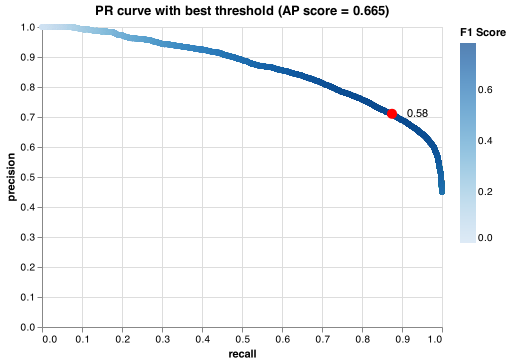
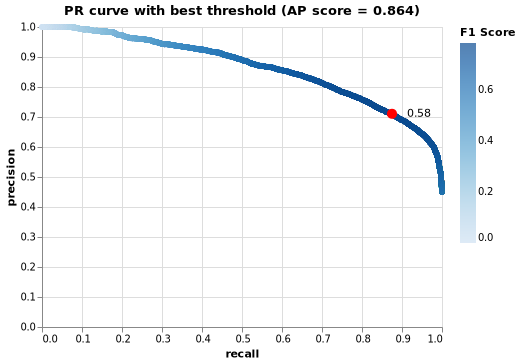
Add graphs & table on finding section, and modify model_performance.py

diff --git a/src/model_evaluation.py b/src/model_evaluation.py
@@ -78,13 +78,25 @@ def main():
     y_pred_train = rand_search_rf.predict(X_train)
     y_pred = rand_search_rf.predict(X_test)
 
+    # Get output of pred_proba of train and test data respectively
+    y_pred_train_prob = rand_search_rf.predict_proba(X_train)[:,1]
+    y_pred_test_prob = rand_search_rf.predict_proba(X_test)[:,1]
+    ap_forest_train = average_precision_score(y_train, y_pred_train_prob)
+    roc_forest_train = roc_auc_score(y_train, y_pred_train_prob)
+
+    ap_forest_test = average_precision_score(y_test, y_pred_test_prob)
+    roc_forest_test = roc_auc_score(y_test, y_pred_test_prob)
+
+
     # Table of Metrics for positive class for train and test set
     model_perf_df = pd.DataFrame(
         {
             "Accuracy": [accuracy_score(y_train, y_pred_train), accuracy_score(y_test, y_pred)],
             "Precision": [precision_score(y_train, y_pred_train), precision_score(y_test, y_pred)],
             "Recall": [recall_score(y_train, y_pred_train), recall_score(y_test, y_pred)],
-            "F1 Score": [f1_score(y_train, y_pred_train), f1_score(y_test, y_pred)]
+            "F1 Score": [f1_score(y_train, y_pred_train), f1_score(y_test, y_pred)],
+            "AP Score": [ap_forest_train, ap_forest_test],
+            "ROC AUC Score": [roc_forest_train, roc_forest_test]
         },
         index=["Train Data", "Test Data"])
 
@@ -107,7 +119,7 @@ def main():
     print(f"Classification report saved to {clf_report_path}")
 
     # Table of Metrics for train set
-    PR_curve_df = pd.DataFrame(precision_recall_curve(y_train, rand_search_rf.predict_proba(X_train)[:,1],), index=["precision","recall","threshold"]).T
+    PR_curve_df = pd.DataFrame(precision_recall_curve(y_train, y_pred_train_prob), index=["precision","recall","threshold"]).T
     PR_curve_df['F1 Score'] =  2 * (PR_curve_df['precision'] * PR_curve_df['recall'])/(PR_curve_df['precision'] + PR_curve_df['recall'])
     
     # Threshold to get best F1 score
@@ -123,7 +135,7 @@ def main():
     )
 
     max_f1_point = alt.Chart(max_f1_df, 
-                            title = 'PR curve with best threshold (AP score = 0.665)',).mark_circle(
+                            title = f'PR curve with best threshold (AP score = {ap_forest_train:.3f})',).mark_circle(
         color="red", size=100, opacity=1).encode(
         x="recall",
         y="precision"
@@ -143,8 +155,8 @@ def main():
     print(f"PR curve saved to {PR_curve_plot_path}")
 
     # Evaluate Model with test data set with best_threshold
-    y_pred_train_thres = rand_search_rf.predict_proba(X_train)[:, 1] > best_thres
-    y_pred_thres = rand_search_rf.predict_proba(X_test)[:, 1] > best_thres
+    y_pred_train_thres = y_pred_train_prob > best_thres
+    y_pred_thres = y_pred_test_prob > best_thres
 
     # Table of Metrics for positive class with best_thres
     model_perf_thres_df = pd.DataFrame(
@@ -165,7 +177,7 @@ def main():
 
 
     # ROC Curve
-    fpr, tpr, thresholds = roc_curve(y_test, rand_search_rf.predict_proba(X_test)[:, 1])
+    fpr, tpr, thresholds = roc_curve(y_test, y_pred_test_prob)
 
     roc_df = pd.DataFrame()
     roc_df['fpr'] = fpr
@@ -174,9 +186,9 @@ def main():
 
     pt_roc_idx = (roc_df['thresholds'] - best_thres).abs().argmin()
 
-    roc_curves = alt.Chart(roc_df, title = "ROC Curve (AUC score = 0.872").mark_line().encode(
-            alt.X('fpr', title="false positive rate"),
-            alt.Y('tpr', title="true positive rate"))
+    roc_curves = alt.Chart(roc_df, title = f"ROC Curve (AUC score = {roc_forest_test:.3f})").mark_line().encode(
+            alt.X('fpr', title="False Positive rate"),
+            alt.Y('tpr', title="True Positive rate"))
 
     roc_max_f1_point = alt.Chart(pd.DataFrame(roc_df.iloc[pt_roc_idx]).T, 
                             ).mark_circle(
@@ -198,16 +210,14 @@ def main():
     print(f"ROC curve saved to {roc_curve_plot_path}")
 
     # Scoring metrics for test data
-    ap_forest = average_precision_score(y_test, rand_search_rf.predict_proba(X_test)[:, 1])
-    roc_forest = roc_auc_score(y_test, rand_search_rf.predict_proba(X_test)[:, 1])
 
     test_model_perf_df = pd.DataFrame({
         "Accuracy" : model_perf_thres_df.loc["Test Data w/ best threshold"]["Accuracy"],
         "Precision" : model_perf_thres_df.loc["Test Data w/ best threshold"]["Precision"],
         "Recall" : model_perf_thres_df.loc["Test Data w/ best threshold"]["Recall"],
         "F1 Score" : model_perf_thres_df.loc["Test Data w/ best threshold"]["F1 Score"],
-        "Average Precision Score" : ap_forest,
-        "AUC Score" : roc_forest},
+        "Average Precision Score" : ap_forest_test,
+        "AUC Score" : roc_forest_test},
         index = ["Test Data Metrics"]).T
 
     # Export test data metrics dataframe
